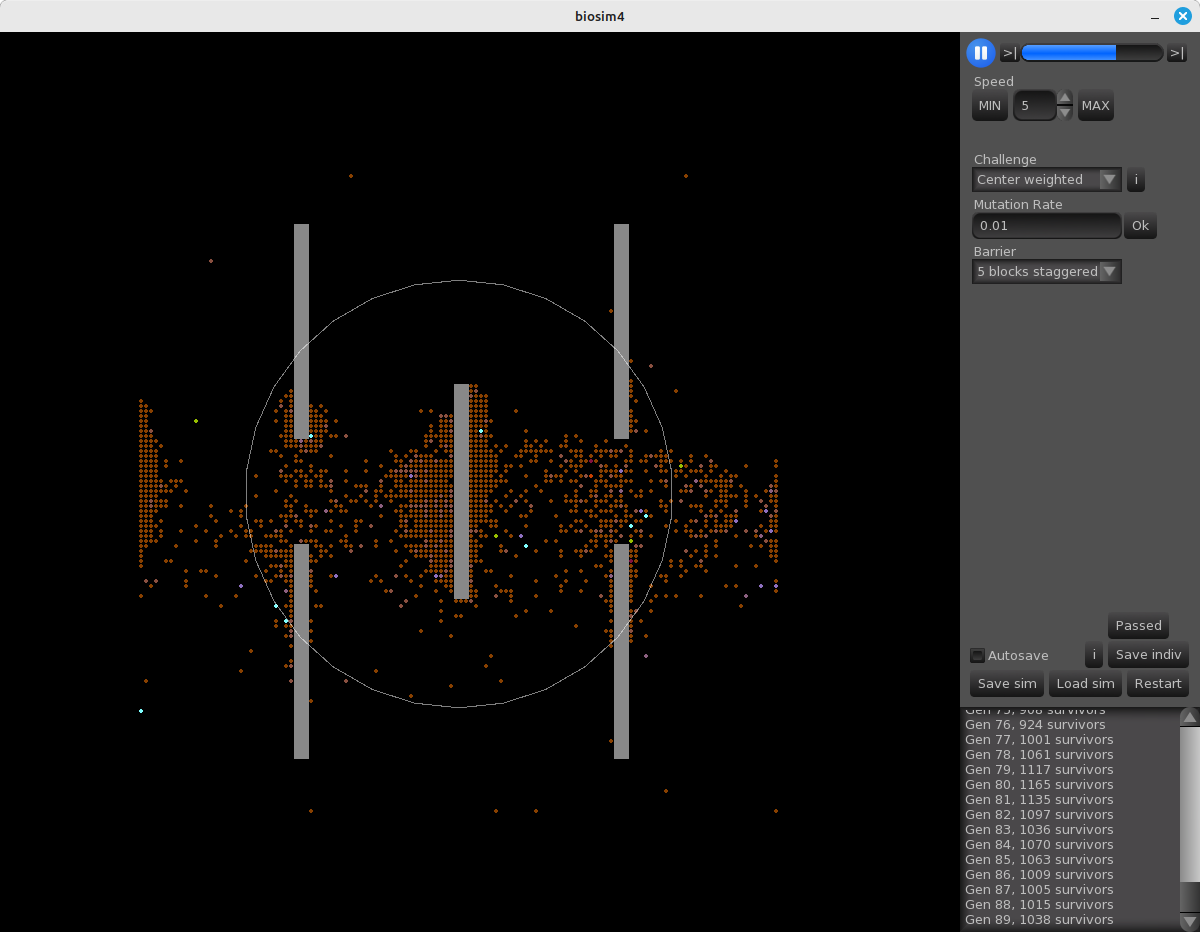
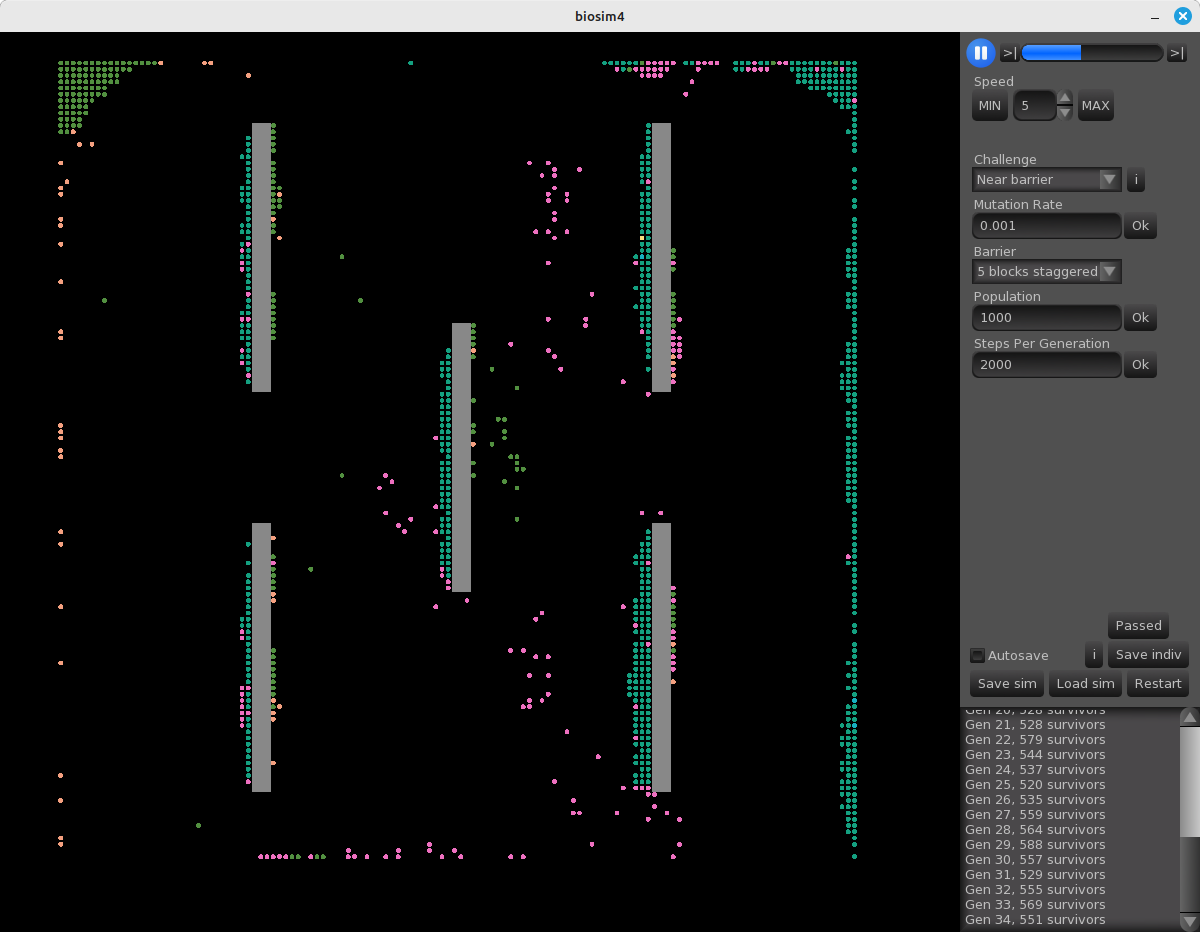
population and steps per generation controlls

diff --git a/src/userio/sfmlComponents/RightPanelComponent.cpp b/src/userio/sfmlComponents/RightPanelComponent.cpp
@@ -22,8 +22,9 @@ namespace BS
     void RightPanelComponent::initSettingsComponents(std::function<void()> infoCallback)
     {
         // setup challenge box
-        this->challengeBoxComponent = new ChallengeBoxComponent([this](std::string name, std::string val)
-                                                                                 { this->changeSettingsCallback(name, val); });
+        this->challengeBoxComponent = new ChallengeBoxComponent([this](std::string name, std::string val) { 
+            this->changeSettingsCallback(name, val); 
+        });
         tgui::ComboBox::Ptr challengeBox = this->challengeBoxComponent->getComboBox();
         challengeBox->setPosition("5%", "15%");
         this->panel->add(challengeBox, "ChallengeBox");
@@ -31,32 +32,53 @@ namespace BS
 
         tgui::Button::Ptr challengeInfoBtn = tgui::Button::create("i");
         challengeInfoBtn->setPosition({bindRight(challengeBox) + 5.f, bindTop(challengeBox)});
-        challengeInfoBtn->onPress([infoCallback]()
-                         { infoCallback(); });
+        challengeInfoBtn->onPress([infoCallback]() { 
+            infoCallback(); 
+        });
         challengeInfoBtn->setHeight(challengeBox->getSize().y);
         this->panel->add(challengeInfoBtn, "IndivInfoBtn");
 
         // setup mutation rate
-        this->mutationRateEditBox = tgui::EditBox::create();
-        this->mutationRateEditBox->setPosition({bindLeft(challengeBox), bindBottom(challengeBox) + this->controlOffset});
-        this->mutationRateEditBox->setText(tgui::String(p.pointMutationRate));
-        this->panel->add(this->mutationRateEditBox);
-        this->createLabel(this->mutationRateEditBox, "Mutation Rate");
-
-        tgui::Button::Ptr mutationButton = tgui::Button::create("Ok");
-        mutationButton->setPosition({bindRight(this->mutationRateEditBox) + 2.f, bindTop(this->mutationRateEditBox)});
-        mutationButton->onPress([this]()
-                                { this->changeSettingsCallback("pointmutationrate", this->mutationRateEditBox->getText().toStdString()); });
-        mutationButton->setHeight(this->mutationRateEditBox->getSize().y);
-        this->panel->add(mutationButton, "MutationButton");
+        this->mutationRateEditBox = this->createEditBox(challengeBox, tgui::String(p.pointMutationRate), "Mutation Rate");
+        this->createConfirmButton(this->mutationRateEditBox, "pointmutationrate", "MutationButton");        
         
         // setup barrier box
-        this->barrierBoxComponent = new BarrierBoxComponent([this](std::string name, std::string val)
-                                                                                 { this->changeSettingsCallback(name, val); });
+        this->barrierBoxComponent = new BarrierBoxComponent([this](std::string name, std::string val) {
+            this->changeSettingsCallback(name, val); 
+        });
         tgui::ComboBox::Ptr barrierBox = this->barrierBoxComponent->getComboBox();
         barrierBox->setPosition({bindLeft(this->mutationRateEditBox), bindBottom(this->mutationRateEditBox) + this->controlOffset});
         this->panel->add(barrierBox, "BarrierBox");
         this->createLabel(barrierBox, "Barrier");
+
+        // setup population
+        this->populationEditBox = this->createEditBox(this->barrierBoxComponent->getComboBox(), tgui::String(p.population), "Population");
+        this->createConfirmButton(this->populationEditBox, "population", "PopulationButton");
+
+        // setup steps per generation
+        this->stepsPerGenerationEditBox = this->createEditBox(this->populationEditBox, tgui::String(p.stepsPerGeneration), "Steps Per Generation");
+        this->createConfirmButton(this->stepsPerGenerationEditBox, "stepspergeneration", "StepsPerGenerationButton");
+    }
+
+    tgui::EditBox::Ptr RightPanelComponent::createEditBox(tgui::Widget::Ptr reference, tgui::String text, std::string name)
+    {
+        tgui::EditBox::Ptr editBox = tgui::EditBox::create();
+        editBox->setPosition({bindLeft(reference), bindBottom(reference) + this->controlOffset});
+        editBox->setText(text);
+        this->panel->add(editBox);
+        this->createLabel(editBox, name);
+        return editBox;
+    }
+
+    void RightPanelComponent::createConfirmButton(tgui::EditBox::Ptr editBox, std::string settingsName, std::string name)
+    {
+        tgui::Button::Ptr button = tgui::Button::create("Ok");
+        button->setPosition({bindRight(editBox) + 2.f, bindTop(editBox)});
+        button->onPress([this, settingsName, editBox]() { 
+            this->changeSettingsCallback(settingsName, editBox->getText().toStdString()); 
+        });
+        button->setHeight(editBox->getSize().y);
+        this->panel->add(button, name);
     }
 
     void RightPanelComponent::setFromParams()

diff --git a/src/userio/sfmlComponents/RightPanelComponent.h b/src/userio/sfmlComponents/RightPanelComponent.h
@@ -34,10 +34,14 @@ namespace BS
         ChallengeBoxComponent *challengeBoxComponent;
         BarrierBoxComponent *barrierBoxComponent;
         tgui::EditBox::Ptr mutationRateEditBox;
+        tgui::EditBox::Ptr populationEditBox;
+        tgui::EditBox::Ptr stepsPerGenerationEditBox;
 
         std::function<void(std::string name, std::string val)> changeSettingsCallback;
 
+        tgui::EditBox::Ptr createEditBox(tgui::Widget::Ptr reference, tgui::String text, std::string name);
         void createLabel(tgui::Widget::Ptr widget, const tgui::String &text);
+        void createConfirmButton(tgui::EditBox::Ptr editBox, std::string settingsName, std::string name);
     };
 }
 
